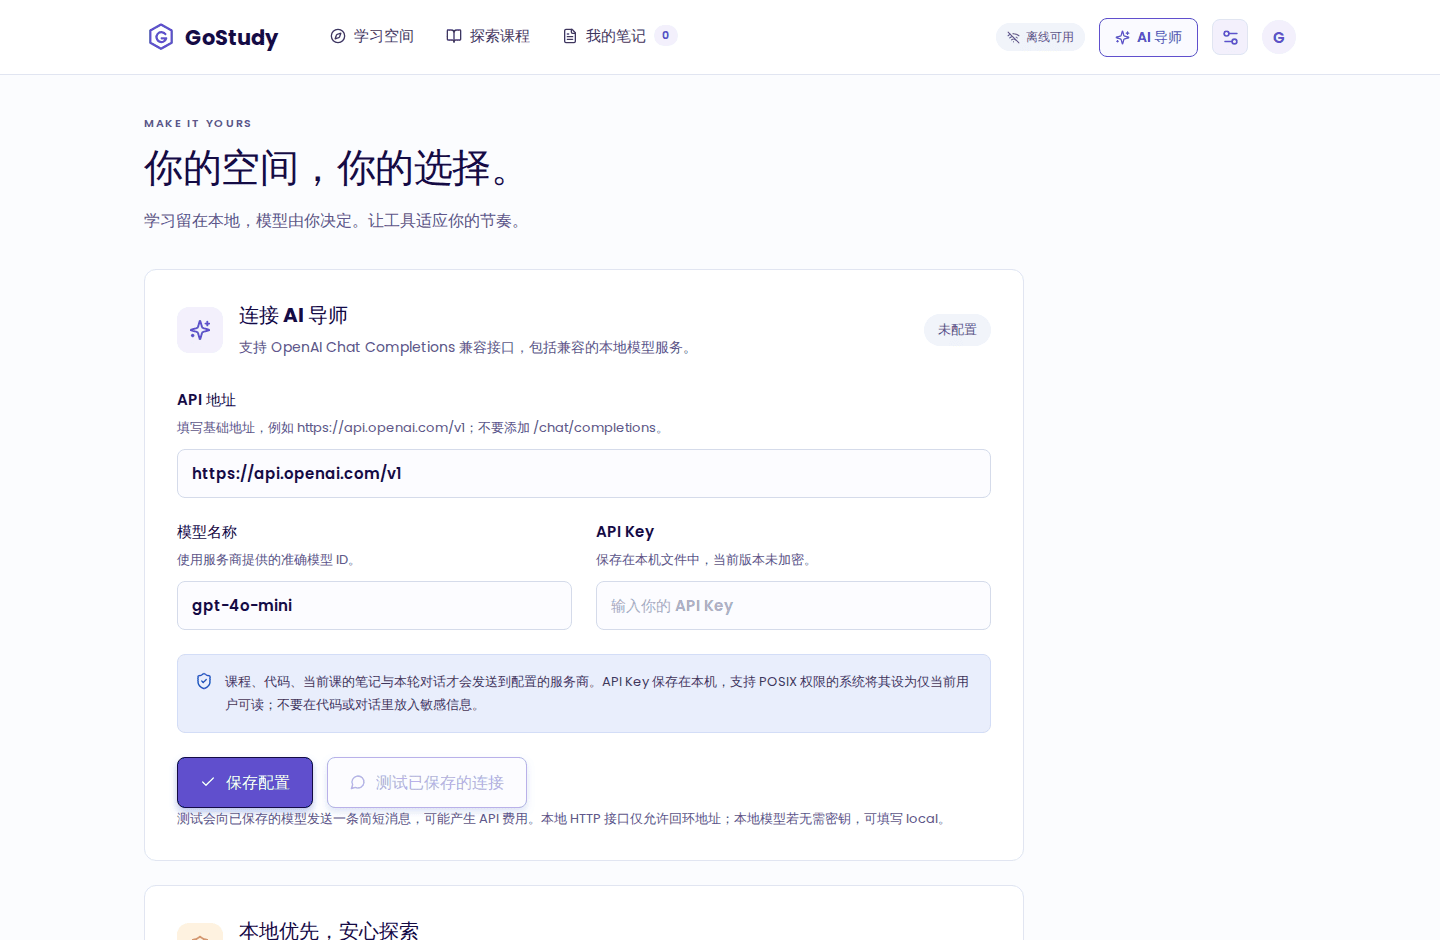
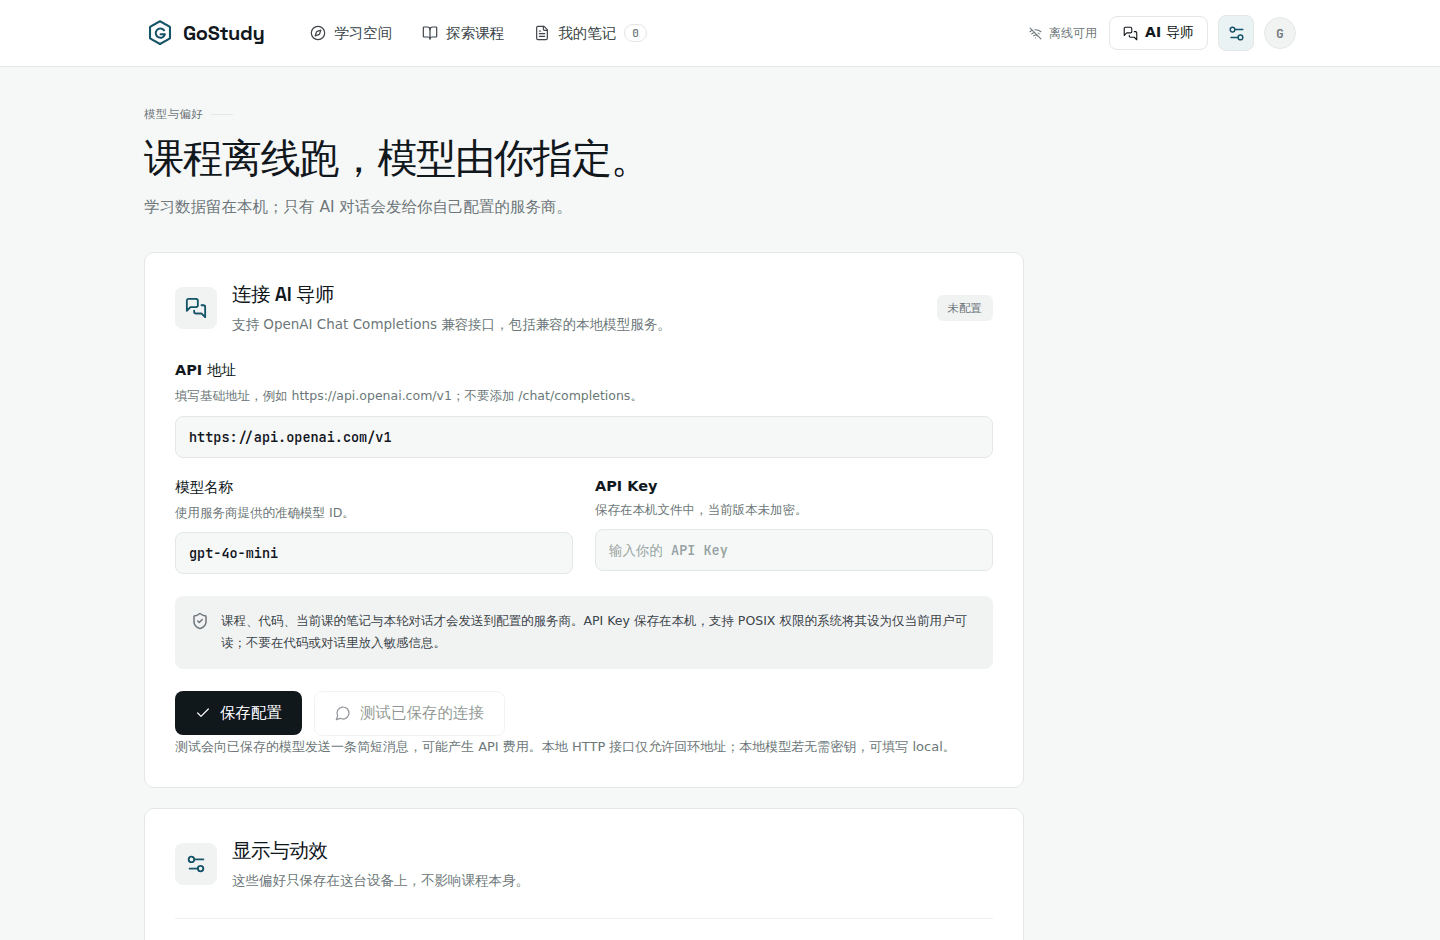
docs(应用说明): 同步新界面截图、视觉规范与安卓主题色
- app/docs/screenshots 六张按原尺寸重新生成（1440×940 / 780×1688），
  pngquant 压缩后总计 332KB（原 353KB）
- app/README 更新视觉规范段落（新配色、字体与许可路径、无渐变约定）
  与界面验收记录中的实测计算样式；补充显示偏好说明
- 安卓主题色、启动图标、WebView 原生底色与文字色对齐新色板，
  避免启动瞬间闪旧底色

diff --git a/app/android/app/src/main/java/io/gostudy/local/MainActivity.java b/app/android/app/src/main/java/io/gostudy/local/MainActivity.java
@@ -25,7 +25,8 @@ import java.util.concurrent.Executors;
 import mobile.Mobile;
 
 public final class MainActivity extends Activity {
-    private static final int BACKGROUND = Color.rgb(251, 252, 254);
+    // 与前端 --paper 保持一致，避免启动瞬间闪一次旧底色。
+    private static final int BACKGROUND = Color.rgb(246, 247, 247);
     // 启动和停止串行执行；旋转屏幕不会启动第二个 Go 引擎。
     private static final ExecutorService ENGINE = Executors.newSingleThreadExecutor();
     private static String engineUrl;
@@ -112,7 +113,7 @@ public final class MainActivity extends Activity {
         container.removeAllViews();
         TextView message = new TextView(this);
         message.setText(resource);
-        message.setTextColor(Color.rgb(19, 11, 67));
+        message.setTextColor(Color.rgb(17, 24, 27));
         message.setTextSize(17);
         message.setGravity(Gravity.CENTER);
         message.setPadding(32, 32, 32, 32);

diff --git a/app/README.md b/app/README.md
@@ -47,7 +47,9 @@ flowchart LR
     G --> B
 ```
 
-界面采用浅色底 `#FBFCFE`、白色卡片、深靛蓝标题 `#130B43` 与主紫色 `#604FCD`，按钮为 8px 圆角并带淡蓝投影，强调文字使用品牌黄 `#F69605` 高亮。视觉方向参考 [Exercism](https://exercism.org/zh-CN) 的课程与练习页面：顶部导航、居中内容列、卡片式课程列表和克制的分隔线。没有渐变，也不依赖在线字体或图片；Poppins 拉丁字符子集随应用本地打包（SIL OFL 1.1，许可证全文见 `frontend/public/fonts/LICENSE-Poppins-OFL.txt`），中文由系统字体渲染。桌面端为顶部导航加双栏练习，窄屏端导航折行、练习纵向排列。代码编辑器采用 CodeMirror，支持 Go 语法高亮、缩进和行号。
+界面采用近中性底色 `#F6F7F7`、白色卡片、墨黑标题 `#11181B` 与深青主色 `#0F5666`；卡片之间靠 1px 描边分层而不是投影，主按钮为近黑实色，彩色只出现在进度、链接、聚焦环与语义状态（通过 / 报错 / 提示）上。视觉方向参考 [Exercism](https://exercism.org/zh-CN) 的课程与练习页面：顶部导航、居中内容列、卡片式课程列表和克制的分隔线。**不使用渐变**，也不依赖在线字体或图片；Space Grotesk（标题与指标数字）与 JetBrains Mono（代码与等宽标签）的拉丁子集随应用本地打包（SIL OFL 1.1，许可证全文见 `frontend/public/fonts/`），中文由系统字体渲染。桌面端为顶部导航加双栏练习，窄屏端导航折行、练习纵向排列。代码编辑器采用 CodeMirror，支持 Go 语法高亮、缩进和行号，语法着色与应用同一套色值（见 `frontend/src/editor.ts`）。
+
+交互层由 Radix UI 的无障碍组件原语（标签页、对话框、开关、滑杆、提示、进度条、通知）与 Motion 动效引擎构成；动效节奏集中在 `frontend/src/motion.ts`，系统「减少动效」或设置里的开关生效时整体关闭，此时界面直接呈现最终状态。首页首屏不加装饰性插画，而是循环演示一段真实课程代码从输入到运行通过的完整过程。
 
 ### 1.2 课程与 AI 导师
 
@@ -71,6 +73,8 @@ flowchart LR
 AI 导师位于学习流程中，可解释当前课、逐步提示和分析用户提交的代码。系统提示要求先引导理解，用户明确要求时才提供完整解答。课程提示是离线内容，不会冒充模型回复。
 
 在「偏好与 AI 设置」填写服务基础地址、模型 ID 与 API Key，保存后可以测试连接。例如，基础地址 `https://api.openai.com/v1` 对应请求 `/chat/completions`。支持兼容 OpenAI Chat Completions 协议的服务；这不等同于支持所有服务商原生协议。回环地址的本地模型可以不配置密钥。
+
+同一页的「显示与动效」提供两项只影响本机观感的偏好：**减少动效**（默认跟随系统，手动切换后可以一键恢复跟随）与**代码字号**（12–20px，同时作用于练习编辑器）。它们保存在浏览器 localStorage，不写入服务端的学习状态文件，因此换设备不会互相影响。
 
 > ⚠ **常见坑**：API 地址不要重复填写 `/chat/completions`。Android 中 `127.0.0.1` 指向手机自身，不能用它访问电脑上的模型。当前版本只允许 HTTPS 远程地址或本机回环 HTTP 地址。
 
@@ -224,7 +228,7 @@ flowchart TD
 
 | 路径 | 职责 |
 |---|---|
-| `frontend/` | React、TypeScript、CodeMirror 与响应式样式 |
+| `frontend/` | React、TypeScript、CodeMirror；交互用 Radix UI 原语，动效用 Motion，样式为手写设计令牌与组件层 |
 | `backend/curriculum.go` | 课程加载与结构校验 |
 | `backend/courses/*.json` | 课程内容，一文件一门课程，对应仓库文档 |
 | `backend/runner.go` | Go 解释执行、输出和时间限制 |
@@ -269,7 +273,7 @@ bash app/scripts/build-windows.sh
 
 本次依赖审计未完成：npm 官方源连接超时，镜像源的安全审计接口返回未实现。依赖安装和锁文件构建成功不能替代漏洞审计。
 
-界面验收使用无头 Chromium 完成：1440×940 与 390×844 两种视口下截取首页、课程目录、课程详情、动手挑战、AI 导师抽屉与设置页共八张截图，控制台无报错；实测计算样式为页面底色 `rgb(251,252,254)`、标题 `rgb(19,11,67)`、主按钮 `rgb(96,79,205)` 且圆角 8px，与参考站点一致，Poppins 字体加载成功且中文正常渲染。截图验收能证明布局与配色未崩坏，但不能替代真机上的字体、交互与性能体验。Windows 退出流程已在本机验证：调用退出接口后进程结束、端口释放、重复退出保持幂等。
+界面验收使用无头 Chromium 完成：1440×940 与 390×844 两种视口下截取首页、课程目录、课程详情、动手挑战、AI 导师抽屉、笔记、设置页与手机端共八张截图，控制台无报错、无失败请求，两种视口都没有横向滚动；实测计算样式为页面底色 `rgb(246,247,247)`、标题 `rgb(17,24,27)`、主按钮实色 `rgb(17,24,27)`、标签页下划线 `rgb(15,86,102)`，卡片为 1px 描边且无投影，全部渐变用法为零；Space Grotesk 与 JetBrains Mono 加载成功且中文正常渲染。同时验证「减少动效」下界面直接呈现最终状态（无 `opacity: 0` 的隐藏元素）与滑杆/开关的可访问名可被读取。截图验收能证明布局与配色未崩坏，但不能替代真机上的字体、交互与性能体验。Windows 退出流程已在本机验证：调用退出接口后进程结束、端口释放、重复退出保持幂等。
 
 Android 构建环境与产物现状：本机已用官方源安装 SDK 35 / build-tools 35.0.0 / NDK 27.2.12479018，产出并签署了 release APK（约 65 MB，含 arm64-v8a、armeabi-v7a、x86、x86_64 四种 ABI）。校验结果：`apksigner verify` 通过（APK Signature Scheme v2 + v3，证书 CN=GoStudy，非 debug 证书）、`aapt2 dump badging` 显示 `versionName=0.3.1`、`minSdkVersion=26`、`targetSdkVersion=35`，且没有 `application-debuggable` 标记。**但还没有在真机上安装并跑完学习流程**，触摸交互、WebView 表现和安装兼容性都需要真机验收。
 
